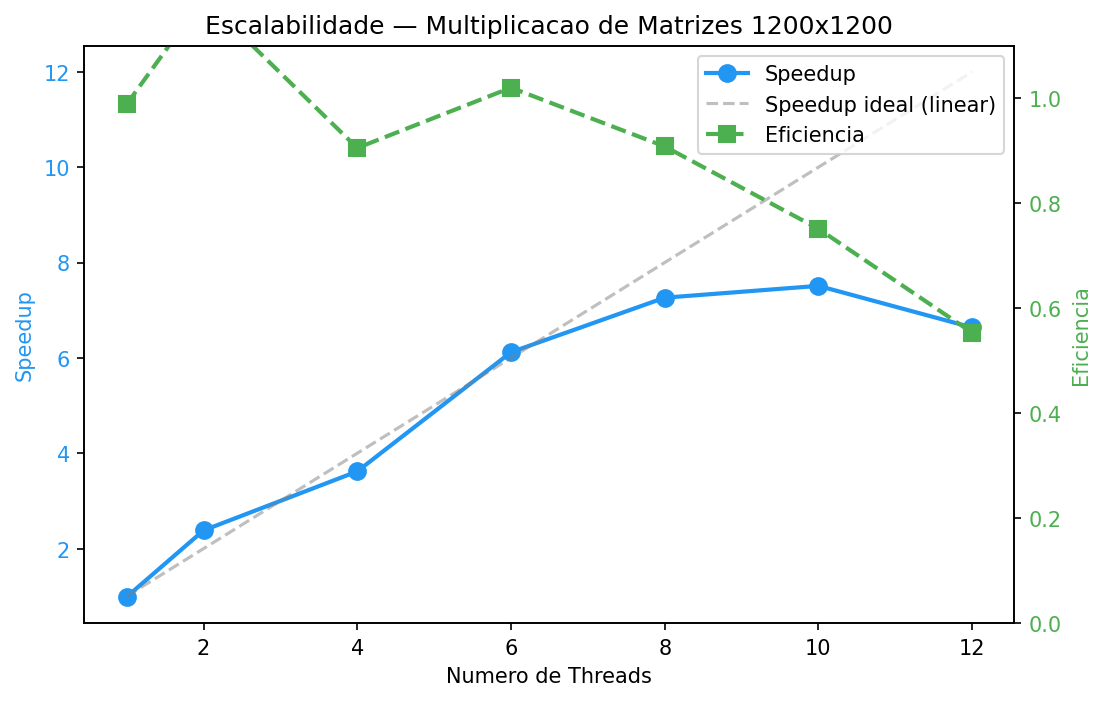
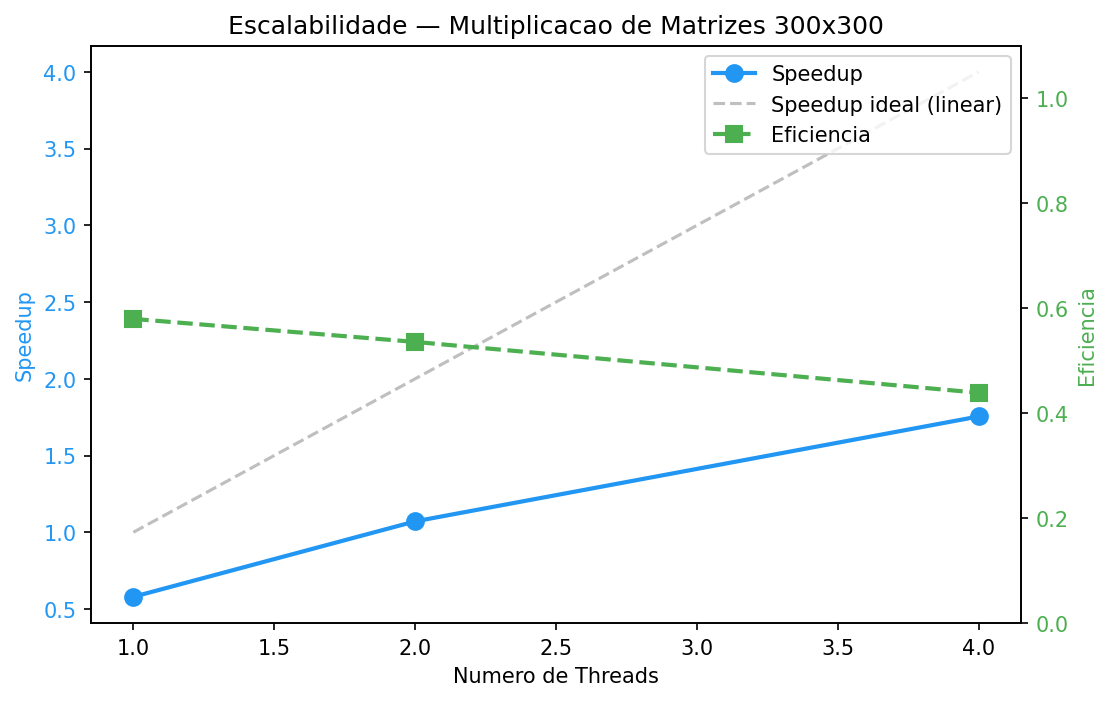
fix(Q2): num_runs = medicoes; aquecimento sempre extra
- Reverte para num_runs = repeticoes cronometradas (>=5 conforme PDF)
- Aquecimento e sempre executado uma vez antes, fora da contagem
- Corrige help text, README, plot.py e Makefile para refletir a logica
- Evita bug em que num_runs=5 produzia apenas 4 medicoes

diff --git a/src/main.c b/src/main.c
@@ -50,12 +50,12 @@ int main(int argc, char *argv[]) {
         fprintf(stderr, "Uso: %s <n> <num_threads> [num_runs]\n\n", argv[0]);
         fprintf(stderr, "  n           : tamanho da matriz n x n (ex: 1200)\n");
         fprintf(stderr, "  num_threads : numero de threads (ex: 4)\n");
-        fprintf(stderr, "  num_runs    : total de repeticoes (padrao: 1, apenas verificacao)\n");
-        fprintf(stderr, "                use >= 5: a primeira execucao e aquecimento (descartada),\n");
-        fprintf(stderr, "                as demais sao medidas e calcula-se a media\n\n");
+        fprintf(stderr, "  num_runs    : repeticoes cronometradas (padrao: 1)\n");
+        fprintf(stderr, "                use >= 5 para media confiavel (um aquecimento\n");
+        fprintf(stderr, "                extra e executado antes, fora da contagem)\n\n");
         fprintf(stderr, "Exemplos:\n");
         fprintf(stderr, "  %s 1200 4              # verifica corretude\n", argv[0]);
-        fprintf(stderr, "  %s 1200 4 6            # 1 aquecimento + 5 medicoes = media de 5\n", argv[0]);
+        fprintf(stderr, "  %s 1200 4 5            # 5 medicoes (+ 1 aquecimento)\n", argv[0]);
         return 1;
     }
 
@@ -104,15 +104,14 @@ int main(int argc, char *argv[]) {
     }
 
     /* --- BENCHMARK --- */
-    if (num_runs <= 1) {
+    if (num_runs <= 0) {
         free(a); free(b); free(c_seq); free(c_par);
         return 0;
     }
 
-    int num_measured = num_runs - 1;
     struct timespec t0, t1;
-    double *seq_times = malloc((size_t)num_measured * sizeof(double));
-    double *par_times = malloc((size_t)num_measured * sizeof(double));
+    double *seq_times = malloc((size_t)num_runs * sizeof(double));
+    double *par_times = malloc((size_t)num_runs * sizeof(double));
 
     if (!seq_times || !par_times) {
         fprintf(stderr, "Erro: falha ao alocar arrays de tempo.\n");
@@ -121,15 +120,18 @@ int main(int argc, char *argv[]) {
         return 1;
     }
 
-    printf("\n=== BENCHMARK (%d repeticoes: 1 aquecimento + %d medicoes) ===\n\n",
-           num_runs, num_measured);
+    if (num_runs >= 5) {
+        printf("\n=== BENCHMARK (%d medicoes + 1 aquecimento) ===\n\n", num_runs);
+    } else {
+        printf("\n=== MEDICAO UNICA (%d repeticoes) ===\n\n", num_runs);
+    }
 
-    /* aquecimento: primeira execucao (resultado descartado) */
+    /* aquecimento: executa ambas as versoes uma vez (resultado descartado) */
     multiply_seq(a, b, c_seq, n);
     multiply_par(a, b, c_par, n, num_threads);
 
     /* repeticoes cronometradas da versao sequencial */
-    for (int r = 0; r < num_measured; r++) {
+    for (int r = 0; r < num_runs; r++) {
         clock_gettime(CLOCK_MONOTONIC, &t0);
         multiply_seq(a, b, c_seq, n);
         clock_gettime(CLOCK_MONOTONIC, &t1);
@@ -137,7 +139,7 @@ int main(int argc, char *argv[]) {
     }
 
     /* repeticoes cronometradas da versao paralela */
-    for (int r = 0; r < num_measured; r++) {
+    for (int r = 0; r < num_runs; r++) {
         clock_gettime(CLOCK_MONOTONIC, &t0);
         multiply_par(a, b, c_par, n, num_threads);
         clock_gettime(CLOCK_MONOTONIC, &t1);
@@ -146,16 +148,16 @@ int main(int argc, char *argv[]) {
 
     /* calcula medias */
     double seq_sum = 0.0, par_sum = 0.0;
-    for (int r = 0; r < num_measured; r++) {
+    for (int r = 0; r < num_runs; r++) {
         seq_sum += seq_times[r];
         par_sum += par_times[r];
     }
-    double seq_avg = seq_sum / num_measured;
-    double par_avg = par_sum / num_measured;
+    double seq_avg = seq_sum / num_runs;
+    double par_avg = par_sum / num_runs;
     double speedup = (par_avg > 0.0) ? seq_avg / par_avg : 0.0;
     double efficiency = speedup / num_threads;
 
-    printf("Medias (%d execucoes, apos aquecimento):\n", num_measured);
+    printf("Medias (%d execucoes):\n", num_runs);
     printf("  T_seq      = %.6f s\n", seq_avg);
     printf("  T_par (%2dT) = %.6f s\n", num_threads, par_avg);
     printf("  Speedup    = %.4fx\n", speedup);
@@ -163,10 +165,10 @@ int main(int argc, char *argv[]) {
 
     /* exibe repeticoes individuais */
     printf("Repeticoes sequenciais (s):");
-    for (int r = 0; r < num_measured; r++) printf(" %.4f", seq_times[r]);
+    for (int r = 0; r < num_runs; r++) printf(" %.4f", seq_times[r]);
 
     printf("\nRepeticoes paralelas   (s):");
-    for (int r = 0; r < num_measured; r++) printf(" %.4f", par_times[r]);
+    for (int r = 0; r < num_runs; r++) printf(" %.4f", par_times[r]);
     printf("\n");
 
     free(seq_times);

diff --git a/tools/plot.py b/tools/plot.py
@@ -62,8 +62,8 @@ def main():
     parser = argparse.ArgumentParser(description="Sweep de escalabilidade para Q4")
     parser.add_argument("--n", type=int, default=1200,
                         help="Tamanho da matriz n x n (default: 1200)")
-    parser.add_argument("--runs", type=int, default=6,
-                        help="Repeticoes totais por ponto (default: 6; 1 aquecimento + 5 medicoes)")
+    parser.add_argument("--runs", type=int, default=5,
+                        help="Repeticoes cronometradas por ponto (default: 5)")
     parser.add_argument("--threads", type=str, default="1,2,4,6,8,10,12",
                         help="Lista de threads separada por virgula (default: 1,2,4,6,8,10,12)")
     args = parser.parse_args()

diff --git a/README.md b/README.md
@@ -71,19 +71,19 @@ gcc -O2 -Wall -Wextra -std=c11 -pthread src/main.c src/matrix_multiply.c -o matr
 # Apenas verificacao de corretude
 ./matrix_multiply 1200 4
 
-# Benchmark: 7 repeticoes (1 aquecimento + 6 uteis)
-./matrix_multiply 1200 4 7
+# Benchmark: 5 medicoes (+ 1 aquecimento automatico)
+./matrix_multiply 1200 4 5
 
 # Variar numero de threads
-./matrix_multiply 1200 1 7
-./matrix_multiply 1200 2 7
-./matrix_multiply 1200 8 7
+./matrix_multiply 1200 1 5
+./matrix_multiply 1200 2 5
+./matrix_multiply 1200 8 5
 ```
 
 ### Sweep completo (Q4)
 
 ```bash
-python3 tools/plot.py --n 1200 --runs 6 --threads 1,2,4,6,8,10,12
+python3 tools/plot.py --n 1200 --runs 5 --threads 1,2,4,6,8,10,12
 ```
 
 ---
@@ -110,7 +110,7 @@ A cronometragem usa `clock_gettime(CLOCK_MONOTONIC)` isolando apenas a regiao de
 
 O resultado e validado via checksum (soma de todos os elementos de C).
 
-**T_seq** (media de 7 execucoes, a primeira descartada como aquecimento): **4.1517 s**
+**T_seq** (media de 5 medicoes, apos aquecimento, n=1200): **4.1517 s**
 (Matriz 1200x1200)
 
 ---
@@ -230,19 +230,19 @@ $ for t in 1 2 4 8 12; do ./matrix_multiply 1200 $t 1 | grep VERIFICACAO; done
 
 ### Teste 4 — Sanidade (T=1)
 ```bash
-$ ./matrix_multiply 1200 1 7
+$ ./matrix_multiply 1200 1 5
 # Speedup ≈ 1.0 (pequeno overhead de criacao de thread)
 ```
 
 ### Teste 5 — Estabilidade
 ```bash
-$ ./matrix_multiply 1200 4 7
+$ ./matrix_multiply 1200 4 5
 # Baixa variancia entre as repeticoes
 ```
 
 ### Teste 6 — Speedup esperado
 ```bash
-$ ./matrix_multiply 1200 4 7
+$ ./matrix_multiply 1200 4 5
 # Tempo cai claramente de T=1 para T=2/4 (speedup > 1)
 ```
 